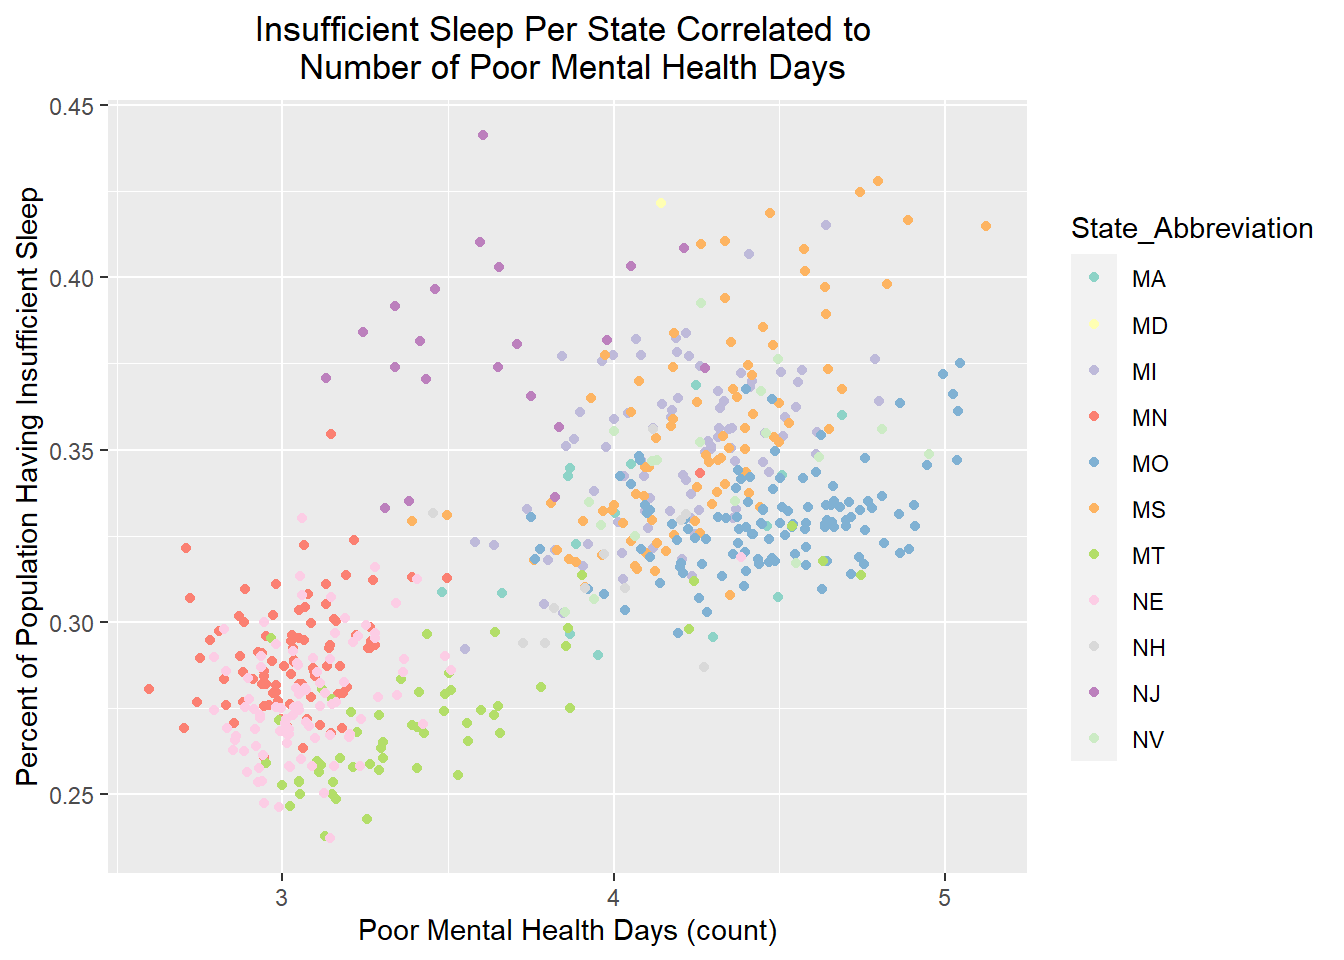
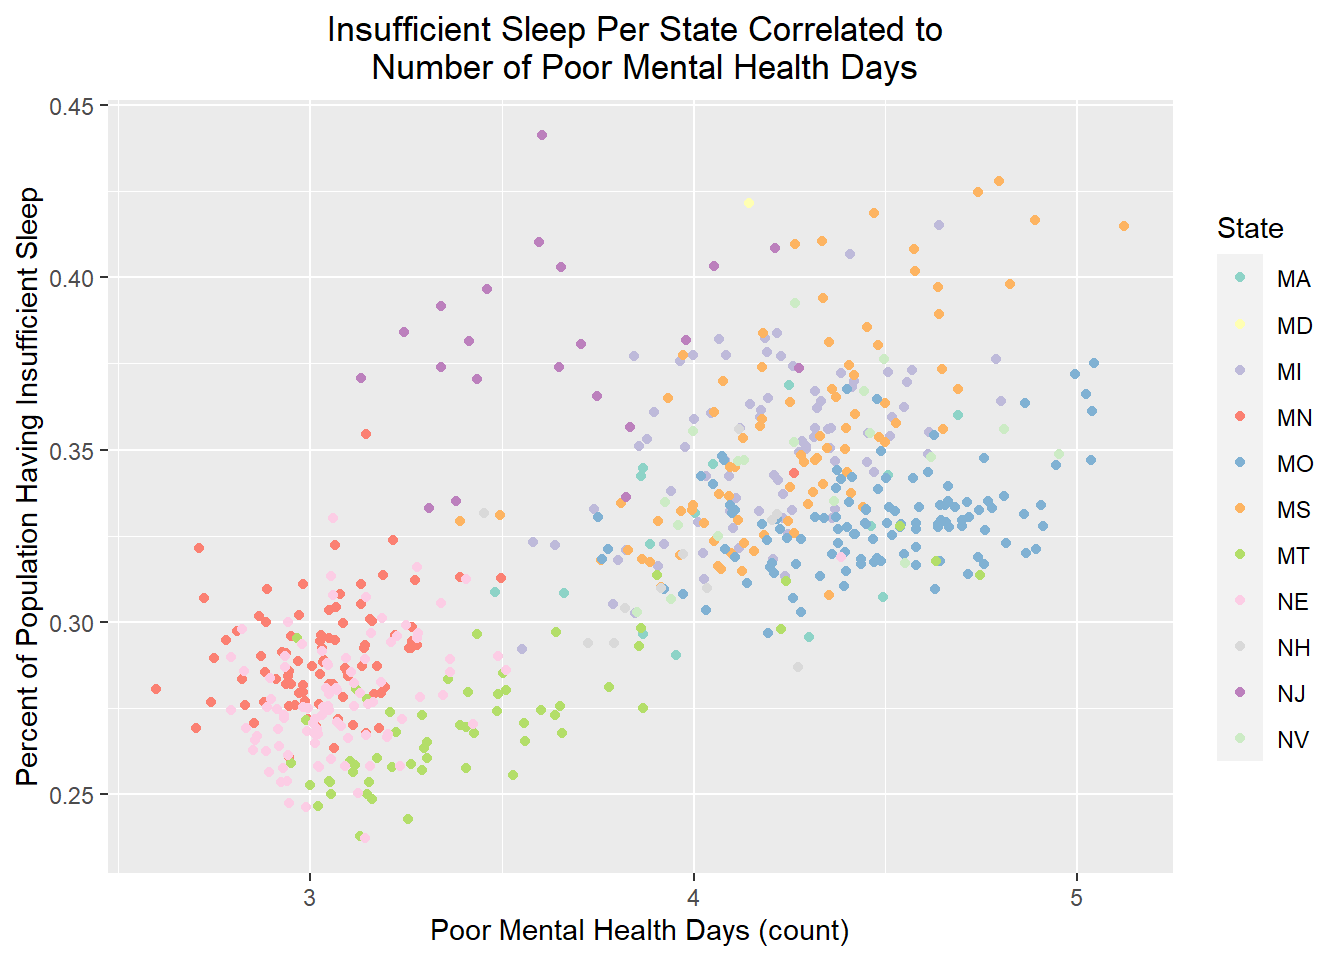
fin

diff --git a/content/Project1_Sofa.html b/content/Project1_Sofa.html
@@ -366,6 +366,7 @@ The next plot I also split into multiple parts due to having too many categories
 <pre class="r"><code># Plot 2
 library(ggplot2)
 library(dplyr)
+library(scales)
 statesAG &lt;- joinedData %&gt;% slice(1:556) %&gt;% mutate(Insufficient_Sleepers = (IS * 
     POP)) %&gt;% select(State_Abbreviation, IS, PMHD, Insufficient_Sleepers)
 statesHMD &lt;- joinedData %&gt;% slice(557:1237) %&gt;% mutate(Insufficient_Sleepers = (IS * 
@@ -383,11 +384,11 @@ ggplot(statesAG, aes(PMHD, IS)) + geom_point(mapping = aes(color = State_Abbrevi
     ylab(&quot;Percent of Population Having Insufficient Sleep&quot;) + 
     scale_x_continuous(&quot;Poor Mental Health Days (count)&quot;, breaks = c(2.5, 
         3.5, 4.5, 5.5)) + theme(plot.title = element_text(hjust = 0.5)) + 
-    scale_color_brewer(palette = &quot;Set3&quot;)</code></pre>
+    scale_color_brewer(palette = &quot;Set3&quot;, name = &quot;State&quot;)</code></pre>
 <p><img src="/Project1_Sofa_files/figure-html/unnamed-chunk-19-1.png" width="672" style="display: block; margin: auto;" /></p>
 <pre class="r"><code>ggplot(statesHMD, aes(PMHD, IS, size = POP)) + geom_point(mapping = aes(color = State_Abbreviation), 
-    ) + scale_size_continuous(range = c(0.1, 12), name = &quot;Population&quot;, 
-    labels = label_number(accuracy = 1, scale = 1&divide;1000, suffix = &quot;k&quot;, big.mark = &quot;,&quot;)) + ggtitle(&quot;Insufficient Sleep Per State Correlated to \n Number of Poor Mental Health Days&quot;) + 
+    ) + scale_size(name = &quot;Population&quot;, 
+    labels = label_number(accuracy = 1, scale = 1&divide;1000, suffix = &quot;k&quot;, big.mark = &quot;,&quot;), range = c(0.1, 12)) + ggtitle(&quot;Insufficient Sleep Per State Correlated to \n Number of Poor Mental Health Days&quot;) + 
     ylab(&quot;Percent of Population Having Insufficient Sleep&quot;) + 
     scale_x_continuous(&quot;Poor Mental Health Days (count)&quot;, breaks = c(3, 
         4, 5)) + scale_color_brewer(palette = &quot;Set3&quot;, name = &quot;State&quot;) + 
@@ -399,21 +400,21 @@ ggplot(statesAG, aes(PMHD, IS)) + geom_point(mapping = aes(color = State_Abbrevi
     ylab(&quot;Percent of Population Having Insufficient Sleep&quot;) + 
     scale_x_continuous(&quot;Poor Mental Health Days (count)&quot;, breaks = c(3, 
         4, 5)) + theme(plot.title = element_text(hjust = 0.5)) + 
-    scale_color_brewer(palette = &quot;Set3&quot;)</code></pre>
+    scale_color_brewer(palette = &quot;Set3&quot;, name = &quot;State&quot;)</code></pre>
 <p><img src="/Project1_Sofa_files/figure-html/unnamed-chunk-19-3.png" width="672" style="display: block; margin: auto;" /></p>
 <pre class="r"><code>ggplot(statesNSC, aes(PMHD, IS)) + geom_point(mapping = aes(color = State_Abbreviation), 
     ) + ggtitle(&quot;Insufficient Sleep Per State Correlated to \n Number of Poor Mental Health Days&quot;) + 
     ylab(&quot;Percent of Population Having Insufficient Sleep&quot;) + 
     scale_x_continuous(&quot;Poor Mental Health Days (count)&quot;, breaks = c(2.5, 
         3.5, 4.5, 5.5)) + theme(plot.title = element_text(hjust = 0.5)) + 
-    scale_color_brewer(palette = &quot;Set3&quot;)</code></pre>
+    scale_color_brewer(palette = &quot;Set3&quot;, name = &quot;State&quot;)</code></pre>
 <p><img src="/Project1_Sofa_files/figure-html/unnamed-chunk-19-4.png" width="672" style="display: block; margin: auto;" /></p>
 <pre class="r"><code>ggplot(statesSDW, aes(PMHD, IS)) + geom_point(mapping = aes(color = State_Abbreviation), 
     ) + ggtitle(&quot;Insufficient Sleep Per State Correlated to \n Number of Poor Mental Health Days&quot;) + 
     ylab(&quot;Percent of Population Having Insufficient Sleep&quot;) + 
     scale_x_continuous(&quot;Poor Mental Health Days (count)&quot;, breaks = c(2.5, 
         3.5, 4.5, 5.5)) + theme(plot.title = element_text(hjust = 0.5)) + 
-    scale_color_brewer(palette = &quot;Set3&quot;)</code></pre>
+    scale_color_brewer(palette = &quot;Set3&quot;, name = &quot;State&quot;)</code></pre>
 <p><img src="/Project1_Sofa_files/figure-html/unnamed-chunk-19-5.png" width="672" style="display: block; margin: auto;" /></p>
 <ol start="5" style="list-style-type: decimal">
 <li>Perform k-means/PAM clustering or PCA on (at least) your numeric variables.</li>

diff --git a/public/project1_sofa/index.html b/public/project1_sofa/index.html
@@ -433,6 +433,7 @@ The next plot I also split into multiple parts due to having too many categories
 <pre class="r"><code># Plot 2
 library(ggplot2)
 library(dplyr)
+library(scales)
 statesAG &lt;- joinedData %&gt;% slice(1:556) %&gt;% mutate(Insufficient_Sleepers = (IS * 
     POP)) %&gt;% select(State_Abbreviation, IS, PMHD, Insufficient_Sleepers)
 statesHMD &lt;- joinedData %&gt;% slice(557:1237) %&gt;% mutate(Insufficient_Sleepers = (IS * 
@@ -450,11 +451,11 @@ ggplot(statesAG, aes(PMHD, IS)) + geom_point(mapping = aes(color = State_Abbrevi
     ylab(&quot;Percent of Population Having Insufficient Sleep&quot;) + 
     scale_x_continuous(&quot;Poor Mental Health Days (count)&quot;, breaks = c(2.5, 
         3.5, 4.5, 5.5)) + theme(plot.title = element_text(hjust = 0.5)) + 
-    scale_color_brewer(palette = &quot;Set3&quot;)</code></pre>
+    scale_color_brewer(palette = &quot;Set3&quot;, name = &quot;State&quot;)</code></pre>
 <p><img src="/Project1_Sofa_files/figure-html/unnamed-chunk-19-1.png" width="672" style="display: block; margin: auto;" /></p>
 <pre class="r"><code>ggplot(statesHMD, aes(PMHD, IS, size = POP)) + geom_point(mapping = aes(color = State_Abbreviation), 
-    ) + scale_size_continuous(range = c(0.1, 12), name = &quot;Population&quot;, 
-    labels = label_number(accuracy = 1, scale = 1&divide;1000, suffix = &quot;k&quot;, big.mark = &quot;,&quot;)) + ggtitle(&quot;Insufficient Sleep Per State Correlated to \n Number of Poor Mental Health Days&quot;) + 
+    ) + scale_size(name = &quot;Population&quot;, 
+    labels = label_number(accuracy = 1, scale = 1&divide;1000, suffix = &quot;k&quot;, big.mark = &quot;,&quot;), range = c(0.1, 12)) + ggtitle(&quot;Insufficient Sleep Per State Correlated to \n Number of Poor Mental Health Days&quot;) + 
     ylab(&quot;Percent of Population Having Insufficient Sleep&quot;) + 
     scale_x_continuous(&quot;Poor Mental Health Days (count)&quot;, breaks = c(3, 
         4, 5)) + scale_color_brewer(palette = &quot;Set3&quot;, name = &quot;State&quot;) + 
@@ -466,21 +467,21 @@ ggplot(statesAG, aes(PMHD, IS)) + geom_point(mapping = aes(color = State_Abbrevi
     ylab(&quot;Percent of Population Having Insufficient Sleep&quot;) + 
     scale_x_continuous(&quot;Poor Mental Health Days (count)&quot;, breaks = c(3, 
         4, 5)) + theme(plot.title = element_text(hjust = 0.5)) + 
-    scale_color_brewer(palette = &quot;Set3&quot;)</code></pre>
+    scale_color_brewer(palette = &quot;Set3&quot;, name = &quot;State&quot;)</code></pre>
 <p><img src="/Project1_Sofa_files/figure-html/unnamed-chunk-19-3.png" width="672" style="display: block; margin: auto;" /></p>
 <pre class="r"><code>ggplot(statesNSC, aes(PMHD, IS)) + geom_point(mapping = aes(color = State_Abbreviation), 
     ) + ggtitle(&quot;Insufficient Sleep Per State Correlated to \n Number of Poor Mental Health Days&quot;) + 
     ylab(&quot;Percent of Population Having Insufficient Sleep&quot;) + 
     scale_x_continuous(&quot;Poor Mental Health Days (count)&quot;, breaks = c(2.5, 
         3.5, 4.5, 5.5)) + theme(plot.title = element_text(hjust = 0.5)) + 
-    scale_color_brewer(palette = &quot;Set3&quot;)</code></pre>
+    scale_color_brewer(palette = &quot;Set3&quot;, name = &quot;State&quot;)</code></pre>
 <p><img src="/Project1_Sofa_files/figure-html/unnamed-chunk-19-4.png" width="672" style="display: block; margin: auto;" /></p>
 <pre class="r"><code>ggplot(statesSDW, aes(PMHD, IS)) + geom_point(mapping = aes(color = State_Abbreviation), 
     ) + ggtitle(&quot;Insufficient Sleep Per State Correlated to \n Number of Poor Mental Health Days&quot;) + 
     ylab(&quot;Percent of Population Having Insufficient Sleep&quot;) + 
     scale_x_continuous(&quot;Poor Mental Health Days (count)&quot;, breaks = c(2.5, 
         3.5, 4.5, 5.5)) + theme(plot.title = element_text(hjust = 0.5)) + 
-    scale_color_brewer(palette = &quot;Set3&quot;)</code></pre>
+    scale_color_brewer(palette = &quot;Set3&quot;, name = &quot;State&quot;)</code></pre>
 <p><img src="/Project1_Sofa_files/figure-html/unnamed-chunk-19-5.png" width="672" style="display: block; margin: auto;" /></p>
 <ol start="5" style="list-style-type: decimal">
 <li>Perform k-means/PAM clustering or PCA on (at least) your numeric variables.</li>
